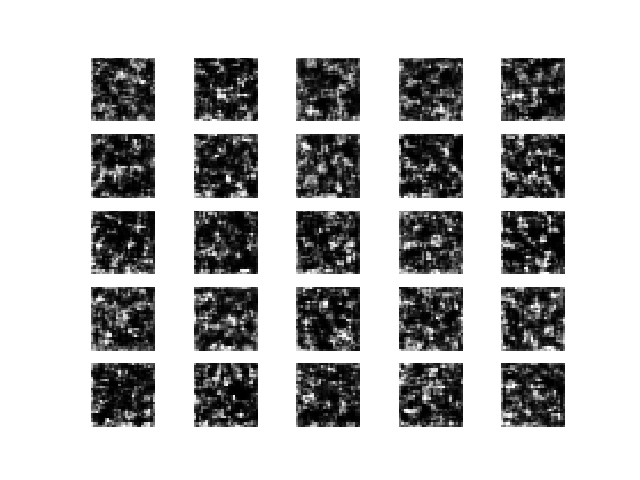
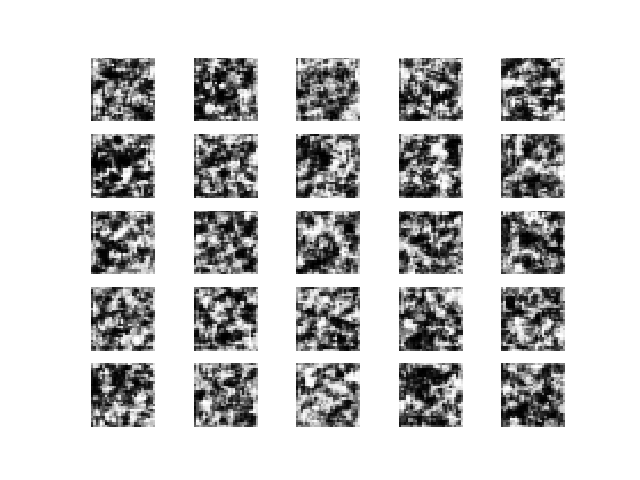
color images cifar10

diff --git a/dcgan/dcgan.py b/dcgan/dcgan.py
@@ -4,9 +4,16 @@ from keras.datasets import fashion_mnist
 from keras.layers import Input, Dense, Reshape, Flatten, Dropout
 from keras.layers import BatchNormalization, Activation, ZeroPadding2D
 from keras.layers.advanced_activations import LeakyReLU
-from keras.layers.convolutional import UpSampling2D, Conv2D
+from keras.layers.convolutional import UpSampling2D, Conv2D, Conv2DTranspose
 from keras.models import Sequential, Model
 from keras.optimizers import Adam
+from keras.preprocessing import image
+
+import pickle
+from os import listdir
+from os.path import isfile, join
+import os
+import cv2
 
 import matplotlib.pyplot as plt
 
@@ -17,9 +24,9 @@ import numpy as np
 class DCGAN():
     def __init__(self):
         # Input shape
-        self.img_rows = 28
-        self.img_cols = 28
-        self.channels = 1
+        self.img_rows = 32
+        self.img_cols = 32
+        self.channels = 3
         self.img_shape = (self.img_rows, self.img_cols, self.channels)
         self.latent_dim = 100
 
@@ -50,11 +57,12 @@ class DCGAN():
         self.combined.compile(loss='binary_crossentropy', optimizer=optimizer)
 
     def build_generator(self):
-
+        #input_const was 7 for 28x28 images. For 32x32 images 7 doesn't work (array mismatch), but 8 does work
+        input_const = 8
         model = Sequential()
 
-        model.add(Dense(128 * 7 * 7, activation="relu", input_dim=self.latent_dim))
-        model.add(Reshape((7, 7, 128)))
+        model.add(Dense(128 * input_const * input_const, activation="relu", input_dim=self.latent_dim))
+        model.add(Reshape((input_const, input_const, 128)))
         model.add(UpSampling2D())
         model.add(Conv2D(128, kernel_size=3, padding="same"))
         model.add(BatchNormalization(momentum=0.8))
@@ -70,9 +78,44 @@ class DCGAN():
 
         noise = Input(shape=(self.latent_dim,))
         img = model(noise)
+        
+        print(img.shape)
 
         return Model(noise, img)
+        """
+        input_layer = Input(shape=(self.latent_dim,))
+        
+        hid = Dense(128 * 16 * 16, activation='relu')(input_layer)    
+        hid = BatchNormalization(momentum=0.9)(hid)
+        hid = LeakyReLU(alpha=0.1)(hid)
+        hid = Reshape((16, 16, 128))(hid)
+    
+        hid = Conv2D(128, kernel_size=5, strides=1,padding='same')(hid)
+        hid = BatchNormalization(momentum=0.9)(hid)    
+        #hid = Dropout(0.5)(hid)
+        hid = LeakyReLU(alpha=0.1)(hid)
 
+        hid = Conv2DTranspose(128, 4, strides=2, padding='same')(hid)
+        hid = BatchNormalization(momentum=0.9)(hid)
+        hid = LeakyReLU(alpha=0.1)(hid)
+
+        hid = Conv2D(128, kernel_size=5, strides=1, padding='same')(hid)
+        hid = BatchNormalization(momentum=0.9)(hid)
+        #hid = Dropout(0.5)(hid)
+        hid = LeakyReLU(alpha=0.1)(hid)
+    
+        hid = Conv2D(128, kernel_size=5, strides=1, padding='same')(hid)
+        hid = BatchNormalization(momentum=0.9)(hid)
+        hid = LeakyReLU(alpha=0.1)(hid)
+                      
+        hid = Conv2D(3, kernel_size=5, strides=1, padding="same")(hid)
+        out = Activation("tanh")(hid)
+
+        model = Model(input_layer, out)
+        model.summary()
+  
+        return model, out
+        """
     def build_discriminator(self):
 
         model = Sequential()
@@ -102,15 +145,82 @@ class DCGAN():
         validity = model(img)
 
         return Model(img, validity)
+        
+
+
+    # Function to unpickle the dataset
+    def unpickle_all_data(self, directory):
+    
+        # Initialize the variables
+        train = dict()
+        test = dict()
+        train_x = []
+        train_y = []
+        test_x = []
+        test_y = []
+    
+        # Iterate through all files that we want, train and test
+        # Train is separated into batches
+        for filename in listdir(directory):
+            if isfile(join(directory, filename)):
+            
+                # The train data
+                if 'data_batch' in filename:
+                    print('Handing file: %s' % filename)
+                
+                    # Opent the file
+                    with open(directory + '/' + filename, 'rb') as fo:
+                        data = pickle.load(fo, encoding='bytes')
+
+                    if 'data' not in train:
+                        train['data'] = data[b'data']
+                        train['labels'] = np.array(data[b'labels'])
+                    else:
+                        train['data'] = np.concatenate((train['data'], data[b'data']))
+                        train['labels'] = np.concatenate((train['labels'], data[b'labels']))
+                # The test data
+                elif 'test_batch' in filename:
+                    print('Handing file: %s' % filename)
+                
+                    # Open the file
+                    with open(directory + '/' + filename, 'rb') as fo:
+                        data = pickle.load(fo, encoding='bytes')
+                
+                    test['data'] = data[b'data']
+                    test['labels'] = data[b'labels']
+    
+        
+        i=0 #sync data and labels
+        # Manipulate the data to the propper format
+        for image in train['data']:
+            if train['labels'][i] == 8: #limit categories; 8 = ships
+                train_x.append(np.transpose(np.reshape(image,(3, 32,32)), (1,2,0)))
+            i += 1
+        train_y = [label for label in train['labels']]
+    
+        for image in test['data']:
+            test_x.append(np.transpose(np.reshape(image,(3, 32,32)), (1,2,0)))
+        test_y = [label for label in test['labels']]
+    
+        # Transform the data to np array format
+        train_x = np.array(train_x)
+        train_y = np.array(train_y)
+        test_x = np.array(test_x)
+        test_y = np.array(test_y)
+    
+        return (train_x, train_y), (test_x, test_y)
+
 
     def train(self, epochs, batch_size=128, save_interval=50):
 
         # Load the dataset
-        (X_train, _), (_, _) = fashion_mnist.load_data()
+        #(X_train, _), (_, _) = fashion_mnist.load_data()
+        # Run the function with and include the folder where the data are
+        (X_train, _), (_, _) = self.unpickle_all_data(os.getcwd() + '/data/cifar-10-python/cifar-10-batches-py/')
 
         # Rescale -1 to 1
         X_train = X_train / 127.5 - 1.
-        X_train = np.expand_dims(X_train, axis=3)
+        #X_train = np.expand_dims(X_train, axis=3)
 
         # Adversarial ground truths
         valid = np.ones((batch_size, 1))
@@ -161,10 +271,14 @@ class DCGAN():
         cnt = 0
         for i in range(r):
             for j in range(c):
-                axs[i,j].imshow(gen_imgs[cnt, :,:,0], cmap='gray')
+                img = image.array_to_img(gen_imgs[cnt], scale=True)
+                axs[i,j].imshow(img)
                 axs[i,j].axis('off')
+      
+                #axs[i,j].imshow(gen_imgs[cnt, :,:,0])
+                #axs[i,j].axis('off')
                 cnt += 1
-        fig.savefig("fashion_generator_output/fashion_mnist_%d.png" % epoch)
+        fig.savefig("cifar_generator_output/cifar_%d.png" % epoch)
         plt.close()
 
 
